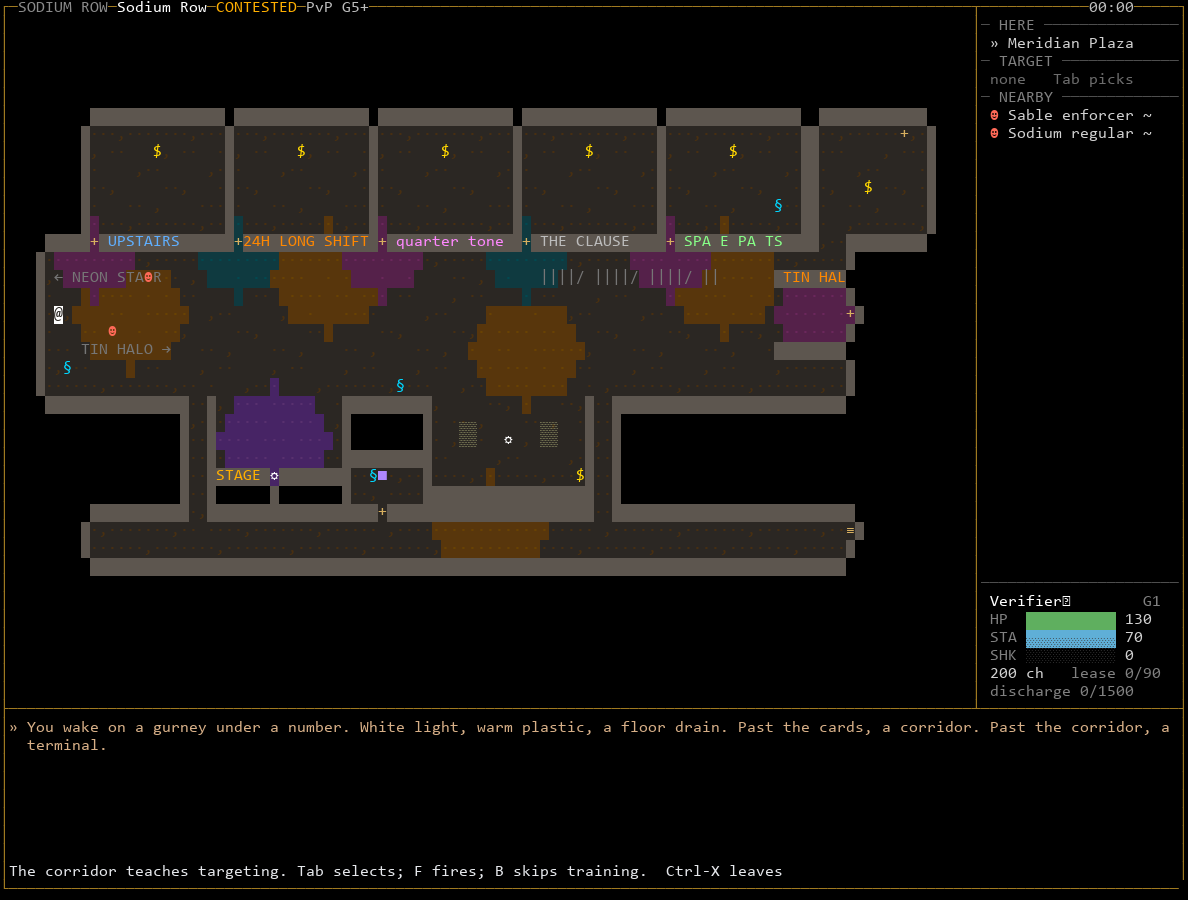
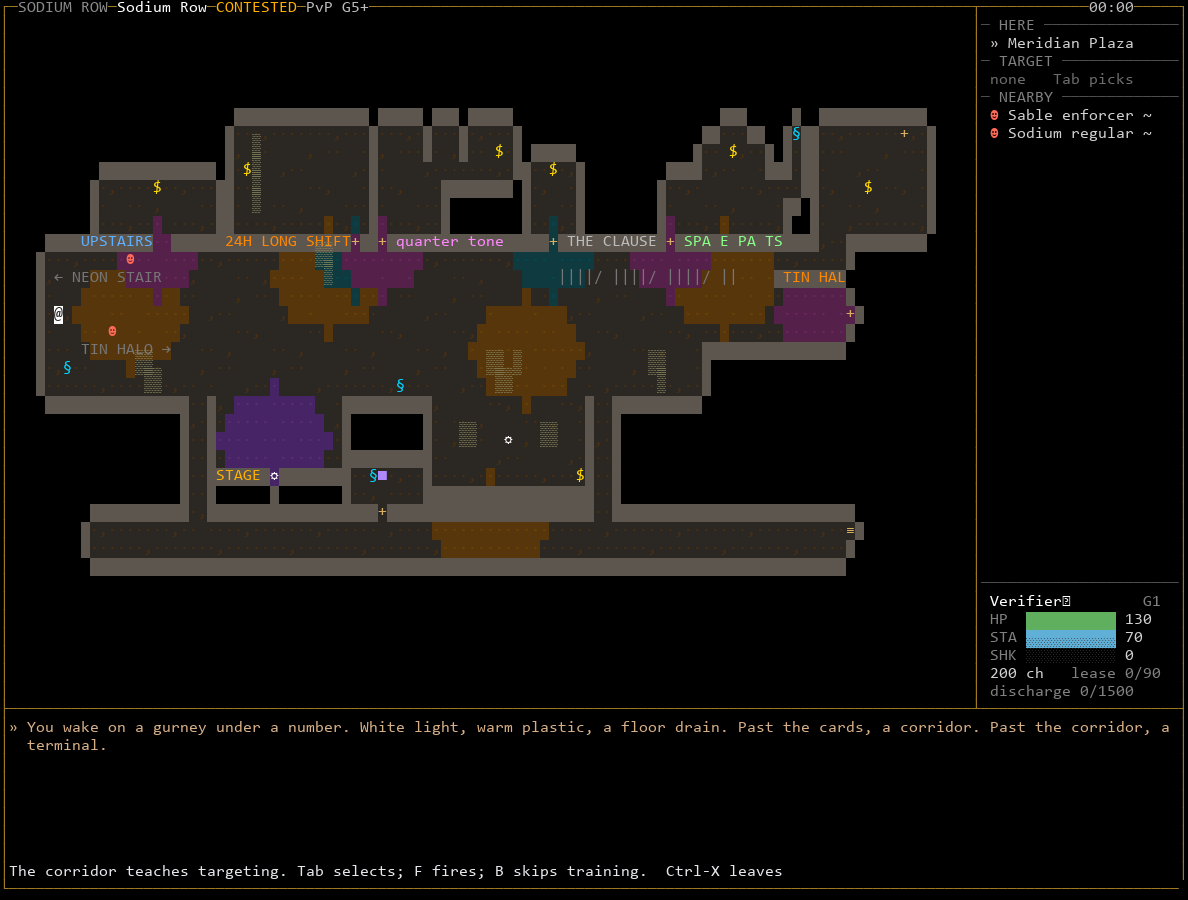
Demo: vary the five bars, add Strip cover, pinch the Halo end
Per the creative consultant's judgement of b51b158. Each bar keeps its
lettered front but has its own room: Upstairs shallow and open-fronted,
the Long Shift deepest with a counter down one side and the door east,
the Quarter Tone an L with booths turned away from the street, the
Clause narrow with a central door, Spare Parts an irregular back with
the terminal in a nook out of the door's sight line. Four cover
clusters sit on the Strip off a clear lane at y 11-13, and the south
side pinches in before the Halo bay. The Halo back-room door starts
closed, so the core's back-door control opens it.

Claude-Session: https://claude.ai/code/session_01D6Sz2bxEQypb4Aarpy1eeR

diff --git a/scripts/demo_sodium/geometry.py b/scripts/demo_sodium/geometry.py
@@ -19,15 +19,42 @@ CONTENT = ROOT/"src/blacksite/content"
 W, H = 100, 30
 STRIP = (9, 16)          # y range of the Strip, inclusive
 AXIS = 12                # arrival row: the Stair landing and the Halo door
-BARS = [                 # (interior x0, sign text, role, crowd)
-    (6, " UPSTAIRS ", "thing_sign_blue", "Halvard and Sablier staff"),
-    (22, "24H LONG SHIFT", "thing_sign_orange", "Kestrel"),
-    (38, " quarter tone ", "thing_sign_pink", "Choir"),  # kept low
-    (54, " THE CLAUSE ", "thing_sign_street", "Wakes and strays"),
-    (70, " SPA E PA TS ", "thing_sign_green", "Unmoored"),
+# Each bar keeps a 15-wide lettered front (x0 .. x0+14, wall at y 8) but
+# its own room and door, so a bar reads by shape as well as by sign.
+BARS = [  # (x0, door x or None for an open front, sign x, text, role, crowd)
+    (6, None, 5, "UPSTAIRS", "thing_sign_blue", "Halvard and Sablier staff"),
+    (22, 35, 21, "24H LONG SHIFT", "thing_sign_orange", "Kestrel"),
+    (38, 38, 39, " quarter tone ", "thing_sign_pink", "Choir"),  # kept low
+    (54, 57, 58, " THE CLAUSE ", "thing_sign_street", "Wakes and strays"),
+    (70, 70, 71, " SPA E PA TS ", "thing_sign_green", "Unmoored"),
 ]
-BAR_W = 15               # interior width; side walls between alcoves
-ALCOVE = (2, 7)          # alcove interior y range; front wall at y 8
+BAR_DOORS = [(door, 8) for _, door, *_ in BARS if door is not None]
+
+
+def bars(g, fill):
+    # Upstairs: shallow and open-fronted, a clean room seen from the Strip.
+    fill(7, 5, 19, 7)
+    fill(13, 8, 14, 8)
+    # Long Shift: the deepest, a long counter down the west side, door east.
+    fill(22, 2, 36, 7)
+    for y in range(3, 7):
+        g[y][24] = "%"
+    # Quarter Tone: an L turned away from the street, booths in the back.
+    fill(38, 5, 44, 7)
+    fill(38, 2, 52, 4)
+    for x in (43, 47):
+        g[2][x] = g[3][x] = "#"
+    # The Clause: narrow and cramped, door central.
+    fill(55, 4, 59, 7)
+    # Spare Parts: an irregular back, the terminal in a nook off the line
+    # of sight from the door.
+    fill(70, 5, 82, 7)
+    fill(74, 3, 80, 4)
+    fill(76, 2, 78, 2)
+    fill(84, 2, 84, 5)
+    fill(83, 5, 83, 5)
+    for door, y in BAR_DOORS:
+        g[y][door] = "+"
 
 
 def row_map():
@@ -41,10 +68,18 @@ def row_map():
     # The Strip and the Stair landing at its west end.
     fill(1, STRIP[0], 89, STRIP[1])
     fill(1, 9, 4, 16)
-    # Five bar alcoves on the north side, doorways in their front walls.
-    for x0, *_ in BARS:
-        fill(x0, ALCOVE[0], x0+BAR_W-1, ALCOVE[1])
-        g[8][x0] = "+"
+    # Five bar alcoves on the north side.
+    bars(g, fill)
+    # Cover clusters on the Strip, off a clear lane along the axis
+    # (y 11-13): stalls, a cart, barrels. Places to stand, sight to break.
+    for x, y in ((11, 15), (12, 15), (12, 16), (13, 16),
+                 (31, 9), (32, 9), (32, 10),
+                 (50, 15), (51, 15), (51, 16), (52, 16), (53, 15),
+                 (68, 15), (69, 15), (69, 16)):
+        g[y][x] = "%"
+    # The street ends: the south side pinches in before the Halo bay.
+    fill(74, 14, 81, 14, "#")
+    fill(74, 15, 89, 16, "#")
     # Old Works approach in the north-east corner, ending at the boundary.
     fill(87, 2, 98, 7)
     fill(87, 8, 89, 8)
@@ -75,12 +110,12 @@ def row_map():
 
 ROW_OBJECTS = {
     # Bars at the back of each alcove.
-    "row-bar-1": (13, 3), "row-bar-2": (29, 3), "row-bar-3": (45, 3),
-    "row-bar-4": (61, 3), "row-bar-5": (77, 3),
+    "row-bar-1": (13, 5), "row-bar-2": (23, 4), "row-bar-3": (51, 3),
+    "row-bar-4": (57, 4), "row-bar-5": (77, 3),
     "row-stage": (26, 21), "row-card-table": (52, 19),
     "row-drug-dealer": (60, 21), "row-ticket-tout": (92, 5),
     # Spare Parts has a public terminal inside (gazetteer: most bars do).
-    "row-public-1": (3, 15), "row-public-2": (40, 16), "row-public-3": (82, 6),
+    "row-public-1": (3, 15), "row-public-2": (40, 16), "row-public-3": (84, 2),
     "boundary-oldworks-main": (96, 2),
     "house-lights-sign-grid": (37, 21), "sign-grid-hardware": (38, 21),
 }
@@ -196,7 +231,7 @@ def main():
             ex["target_tile"] = list(HALO_ARRIVAL)
     write_map(zones/"sodium-row.map", g)
     doors = {tuple(o["tile"]) for o in row["objects"] if o["kind"] == "door"}
-    doors |= {(x0, 8) for x0, *_ in BARS} | {(38, 23), (90, AXIS)}
+    doors |= set(BAR_DOORS) | {(38, 23), (90, AXIS)}
     row["public"] = public_rects(g, [ROW_ARRIVAL_FROM_PLAZA, ROW_ARRIVAL_FROM_HALO], doors)
     # Placeholder population for a valid map; the consultant owns it.
     row["spawners"] = [
@@ -214,6 +249,9 @@ def main():
     h = halo_map()
     halo = json.loads((zones/"sodium-tin-halo.json").read_text(encoding="utf-8"))
     mark_objects(h, HALO_OBJECTS, halo)
+    for o in halo["objects"]:
+        if o["id"] == "halo-back-room":  # the core's back-door control opens it
+            o["params"]["open"] = False
     halo["spawn"] = list(HALO_SPAWN)
     halo["sight_radius"] = 28  # demo: the whole room in sight (V0-3 is still open)
     halo["exits"] = [
@@ -254,13 +292,13 @@ def main():
     look["regions"] = (
         [{"theme": "sodium-lamp", "circle": [x, y, 3]} for x, y in
          ((10, 12), (32, 10), (54, 14), (76, 10), (50, 24))]
-        + [{"theme": "sodium-door-teal" if i % 2 else "sodium-door-pink", "circle": [x0, 9, 2]}
-           for i, (x0, *_) in enumerate(BARS)]
+        + [{"theme": "sodium-door-teal" if i % 2 else "sodium-door-pink", "circle": [door or 13, 9, 2]}
+           for i, (_, door, *_) in enumerate(BARS)]
         + [{"theme": "sodium-stage", "circle": [26, 19, 3]},
            {"theme": "sodium-door-pink", "circle": [86, 12, 2]}]
     )
     look["signs"] = (
-        [{"at": [x0+1, 8], "text": text, "role": role} for x0, text, role, _ in BARS]
+        [{"at": [sx, 8], "text": text, "role": role} for _, _, sx, text, role, _ in BARS]
         + [{"at": [82, 10], "text": " TIN HAL", "role": "thing_sign_orange"},
            {"at": [19, 21], "text": " STAGE ", "role": "thing_sign_amber"}]
     )
@@ -268,7 +306,7 @@ def main():
         {"at": [2, 10], "text": "← NEON STAIR", "role": "paint"},
         {"at": [5, 14], "text": "TIN HALO →", "role": "paint"},
         # The Clause's regulars chalk their days under its sign.
-        {"at": [56, 10], "text": "||||/ ||||/ ||||/ ||", "role": "paint"},
+        {"at": [58, 10], "text": "||||/ ||||/ ||||/ ||", "role": "paint"},
     ]
     dump(CONTENT/"looks/sodium-row.json", look)
 
